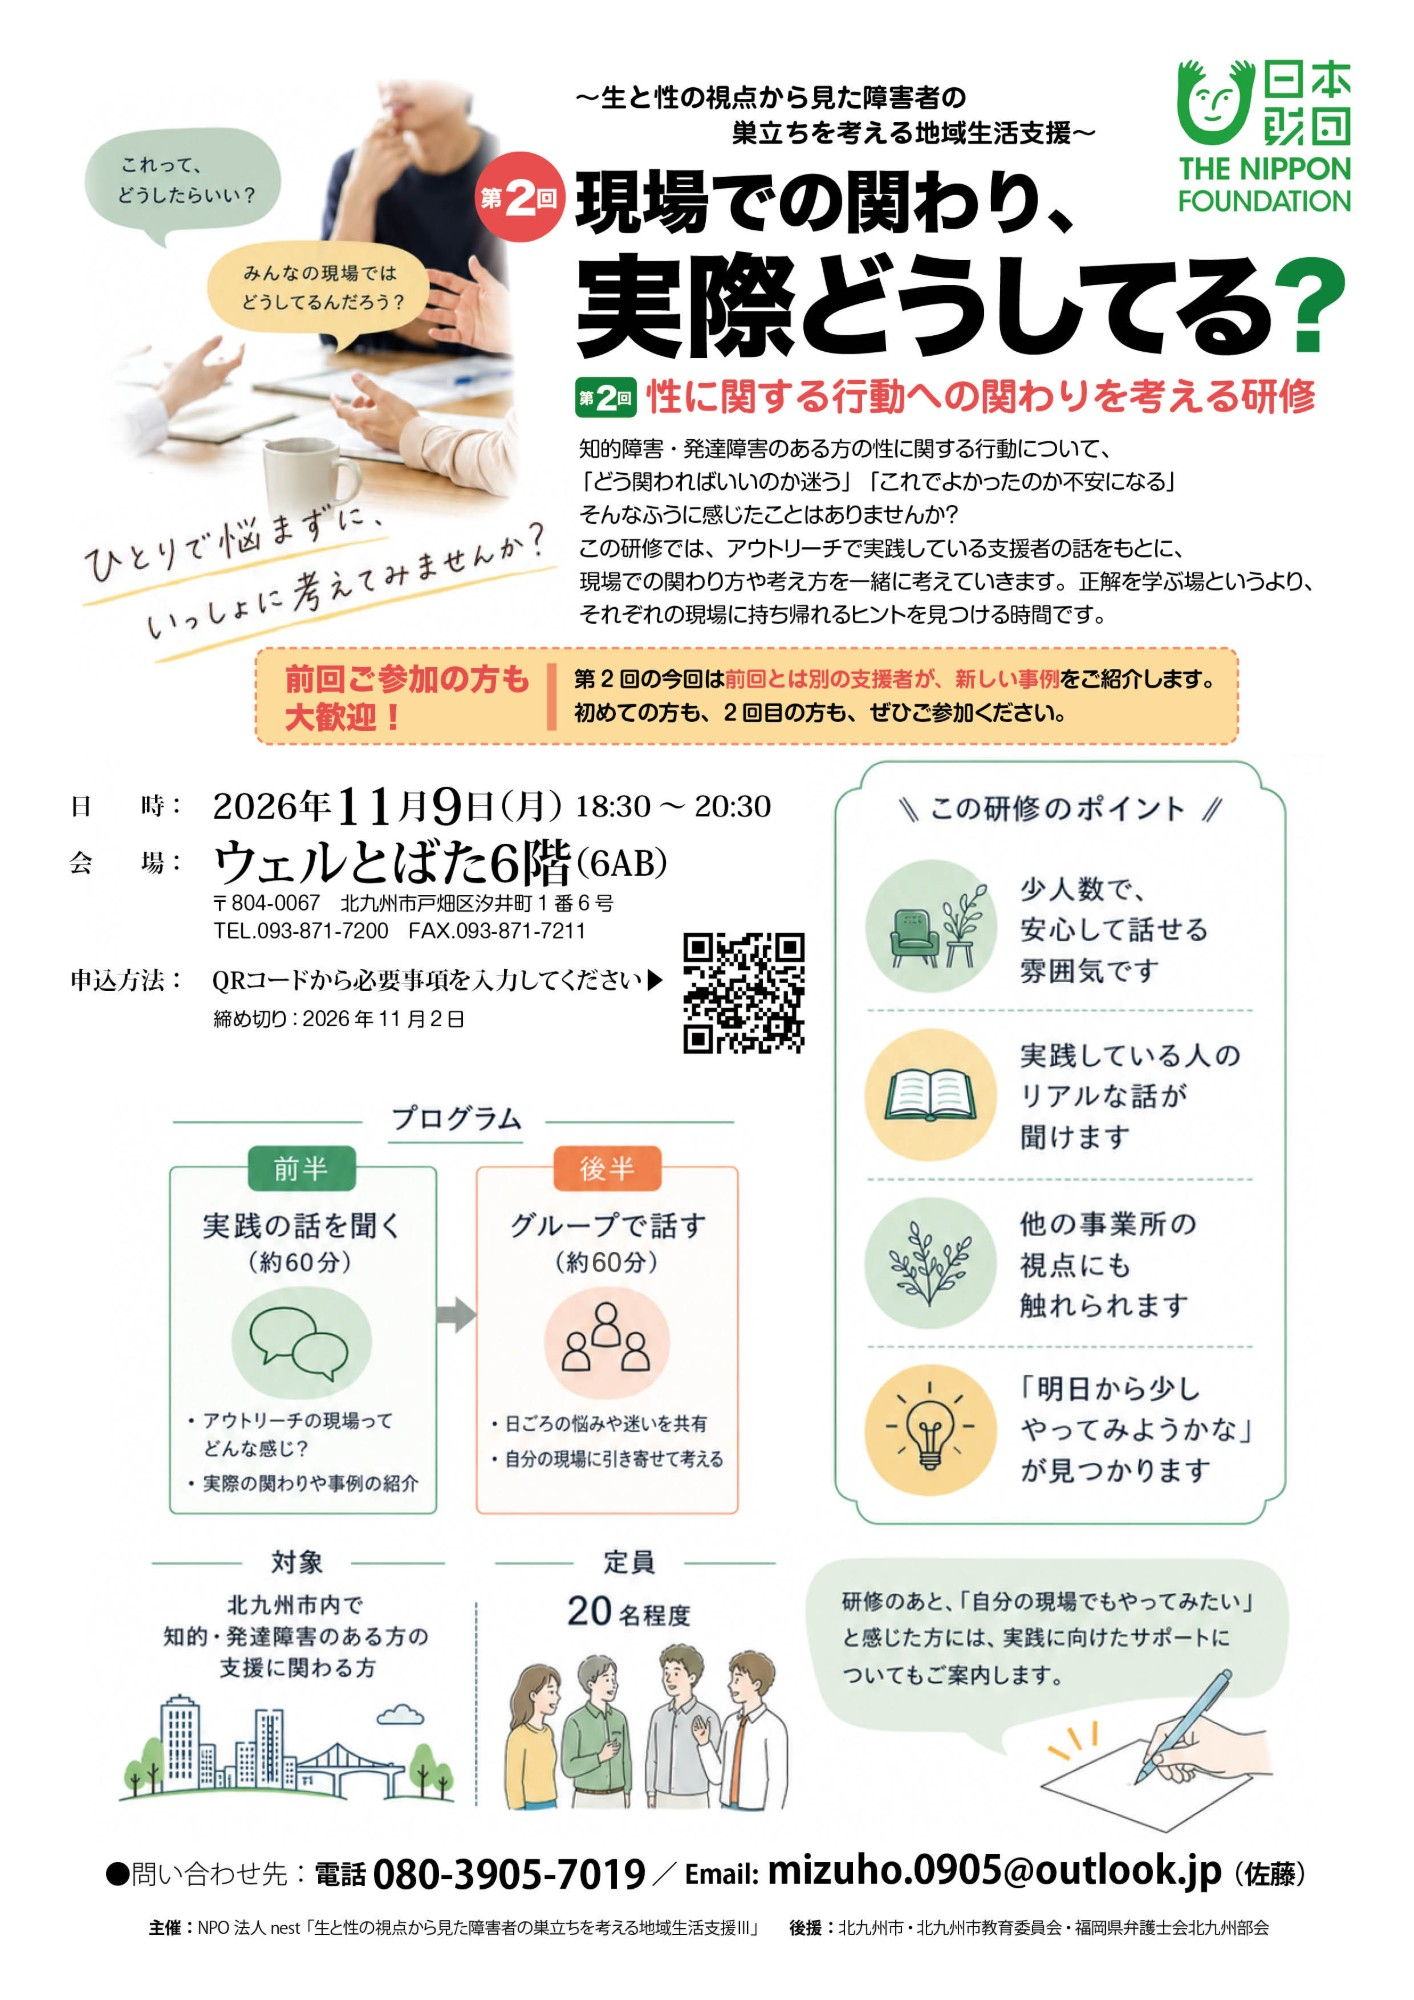
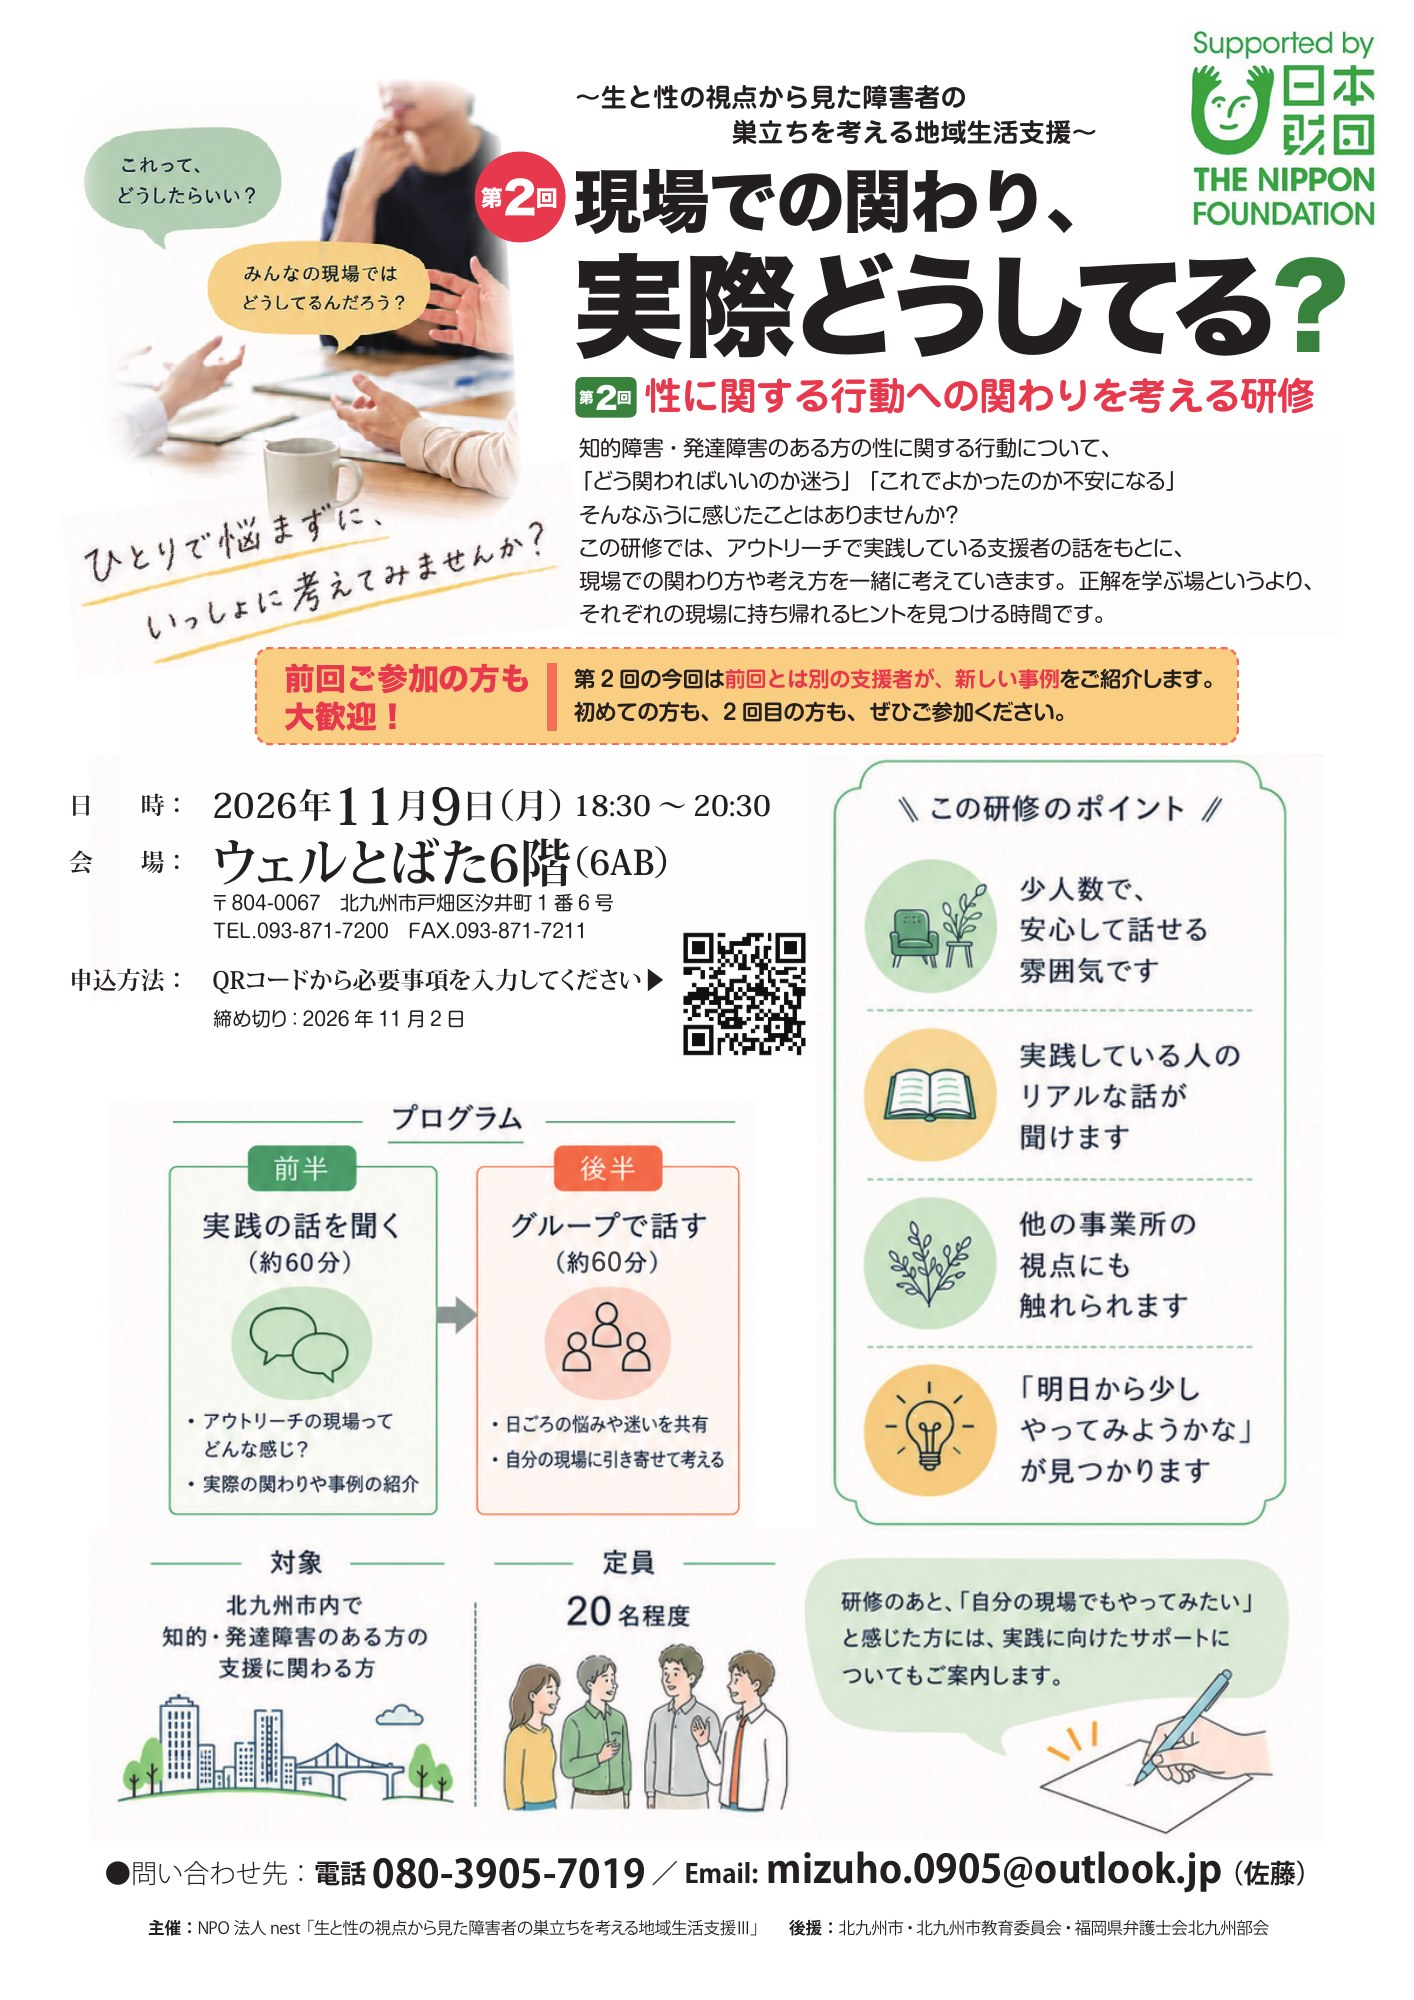
研修第2回のチラシ画像を修正版に差し替え
Claude-Session: https://claude.ai/code/session_01PTmkjp7HkyVhjHZRJLnmss

diff --git a/タスク.md b/タスク.md
@@ -131,3 +131,4 @@
 | 完了 | 寄稿「医療・診療同行時における意思決定支援」の文言修正（「聞き取ることは、不可能といって過言ではありません」→「聴き取ることは極めて困難です」） | 2026-10-02 | 河原さんのスクショ指示。「なぜ医療の現場を問題とするのか」第1段落末尾。PR → Workers Builds 成功 → マージ |
 | 進行中 | 研修コーナーに日本財団「第5回 知的障害者インクルージョン実践セミナー2026」（10/24）の案内を掲載 | 2026-10-06 | 河原さん依頼（佐藤みずほさん経由で届いた日本財団のメールとチラシ）。src/content/news/2026-10-06-nf-inclusion-seminar-5.md を draft: true で作成（説明文・開催概要・登壇者・申込URL）。**チラシPDFはこの環境で取得できず未掲載**（Gmail添付の保存手段なし・日本財団サイトは通信遮断）→ 河原さんからチラシ画像を受領したら public/images/ に置き、記事の image 行と本文コメントを有効化して draft を外す。同日の別メール（現場での関わり第2回チラシの日本財団ロゴ差し替え版）は別件で未対応 |
 | 完了 | 研修コーナーに日本財団「第5回 知的障害者インクルージョン実践セミナー」（10/24）の案内を掲載 | 2026-10-06 | 河原さん依頼（佐藤みずほさん経由のメール）。src/content/news/2026-10-06-nf-inclusion-seminar-5.md（tag=研修会）、チラシ2ページ分のJPG（public/images/nf-inclusion-seminar-5-flyer-1.jpg・-2.jpg）、PDF（public/pdfs/notices/2026-10-nf-inclusion-seminar-5.pdf）。メール本文とチラシで異なる点（申込期限10/16・会場2階大会議室・パネルのテーマ・小野寺氏の肩書）はチラシに合わせた。この環境は node_modules なしで build 未実行。ブランチにコミット、公開（main反映）は河原さん判断待ち。同日の別メール（「現場での関わり」第2回チラシの日本財団ロゴ差し替え版）は別件で未対応 |
+| 完了 | 研修「現場での関わり、実際どうしてる？」第2回（2026-10-01 の記事）のチラシ画像を修正版に差し替え | 2026-10-06 | 河原さん依頼（チラシに一部誤りがあったため修正版PDFを受領）。public/images/sei-training-2-flyer.jpg を同名・同サイズ（1414×2000）で差し替え、記事本文は変更なし。旧版との目視比較では日本財団ロゴが「Supported by 日本財団」の表記に変わっていた以外、日時・会場・申込・問い合わせ先の文字は同じ（修正された「誤り」の箇所は河原さんに要確認）。ブランチにコミット。build未実行 |

diff --git a/作業ログ.md b/作業ログ.md
@@ -1291,3 +1291,9 @@
 - **実施**: 10/6 のメール2通を確認（1通目＝日本財団セミナー案内＋チラシ、2通目＝「現場での関わり」チラシの日本財団ロゴ差し替え版）。1通目の添付は取得手段がなく、河原さんからPDFを受領。説明文つきの記事を作成し、チラシをJPG（2ページ）とPDFで掲載。
 - **成果物**: src/content/news/2026-10-06-nf-inclusion-seminar-5.md、public/images/nf-inclusion-seminar-5-flyer-1.jpg・-2.jpg、public/pdfs/notices/2026-10-nf-inclusion-seminar-5.pdf。
 
+### 2026-10-06 研修第2回チラシの差し替え
+
+- **依頼**: 河原さん「2026/10/01付けの研修会のチラシに一部誤りがあったため、添付のPDFに差し替えて」。
+- **実施**: 添付PDF（A4・1ページ）を1414×2000のJPGにして、記事が参照する画像を差し替え。旧版と見比べ、日本財団ロゴの表記以外の文字は同一であることを確認。
+- **成果物**: public/images/sei-training-2-flyer.jpg（src/content/news/2026-10-01-sei-training-2.md が参照）。
+
